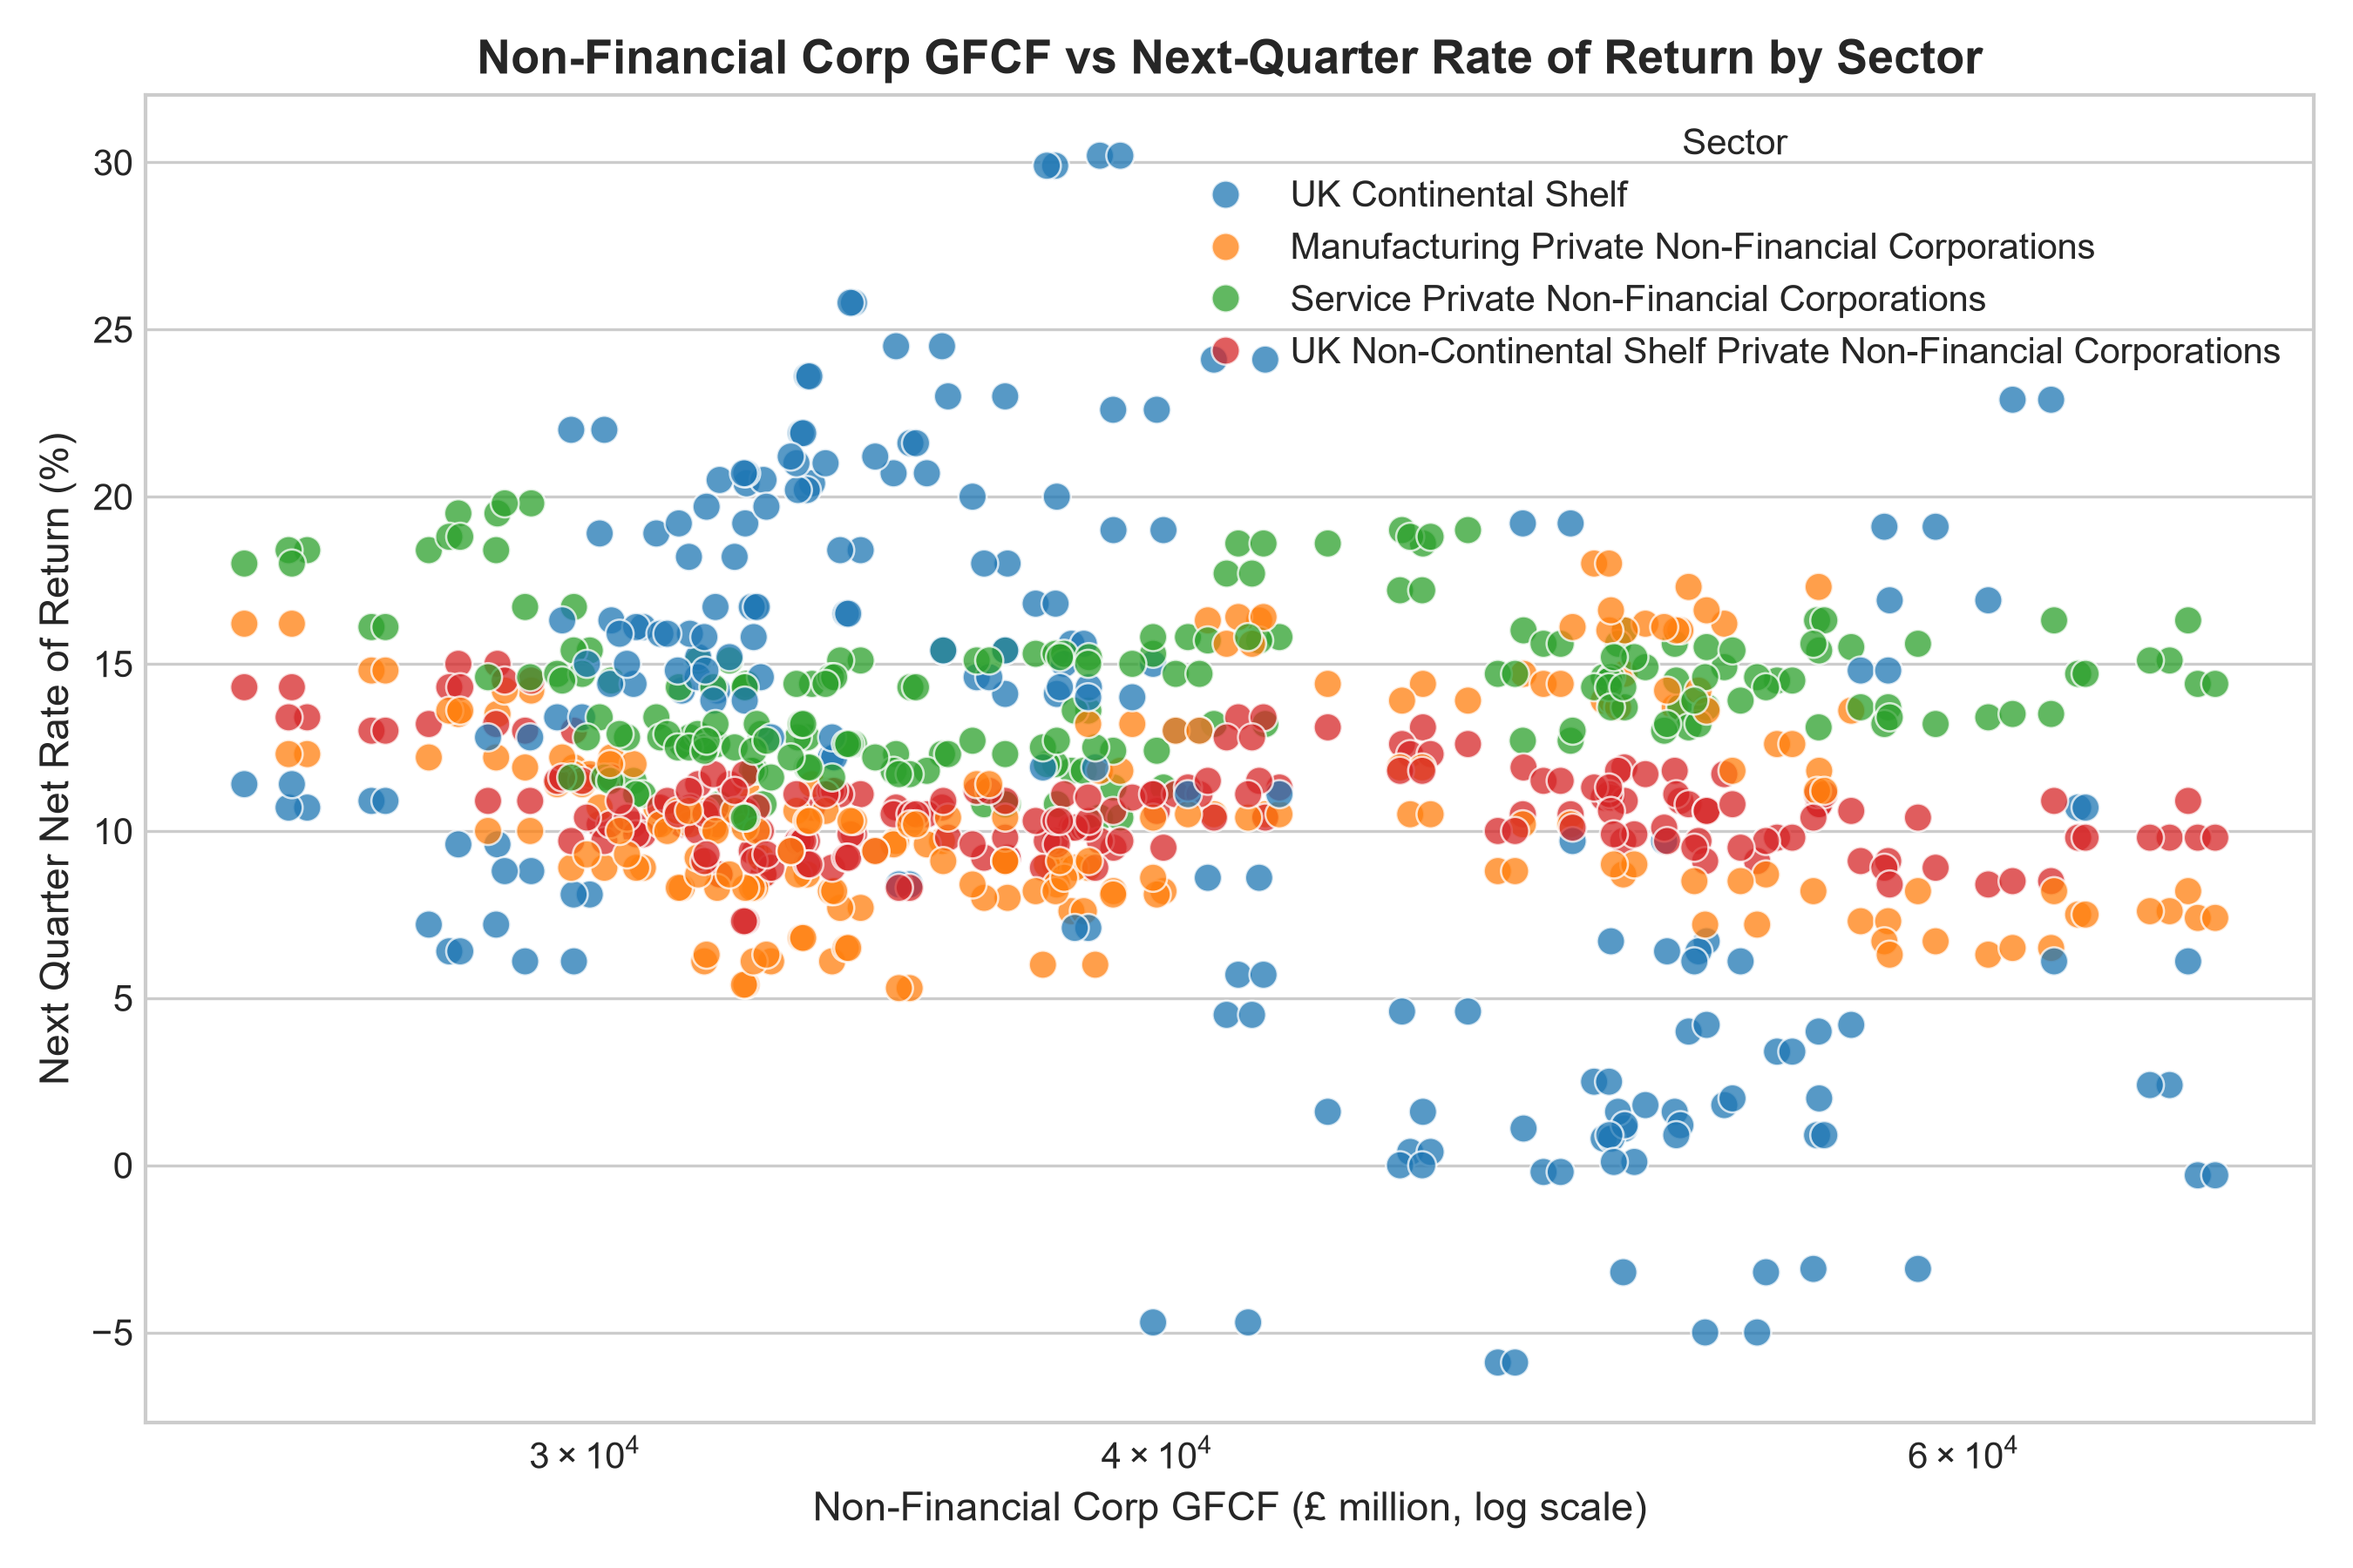
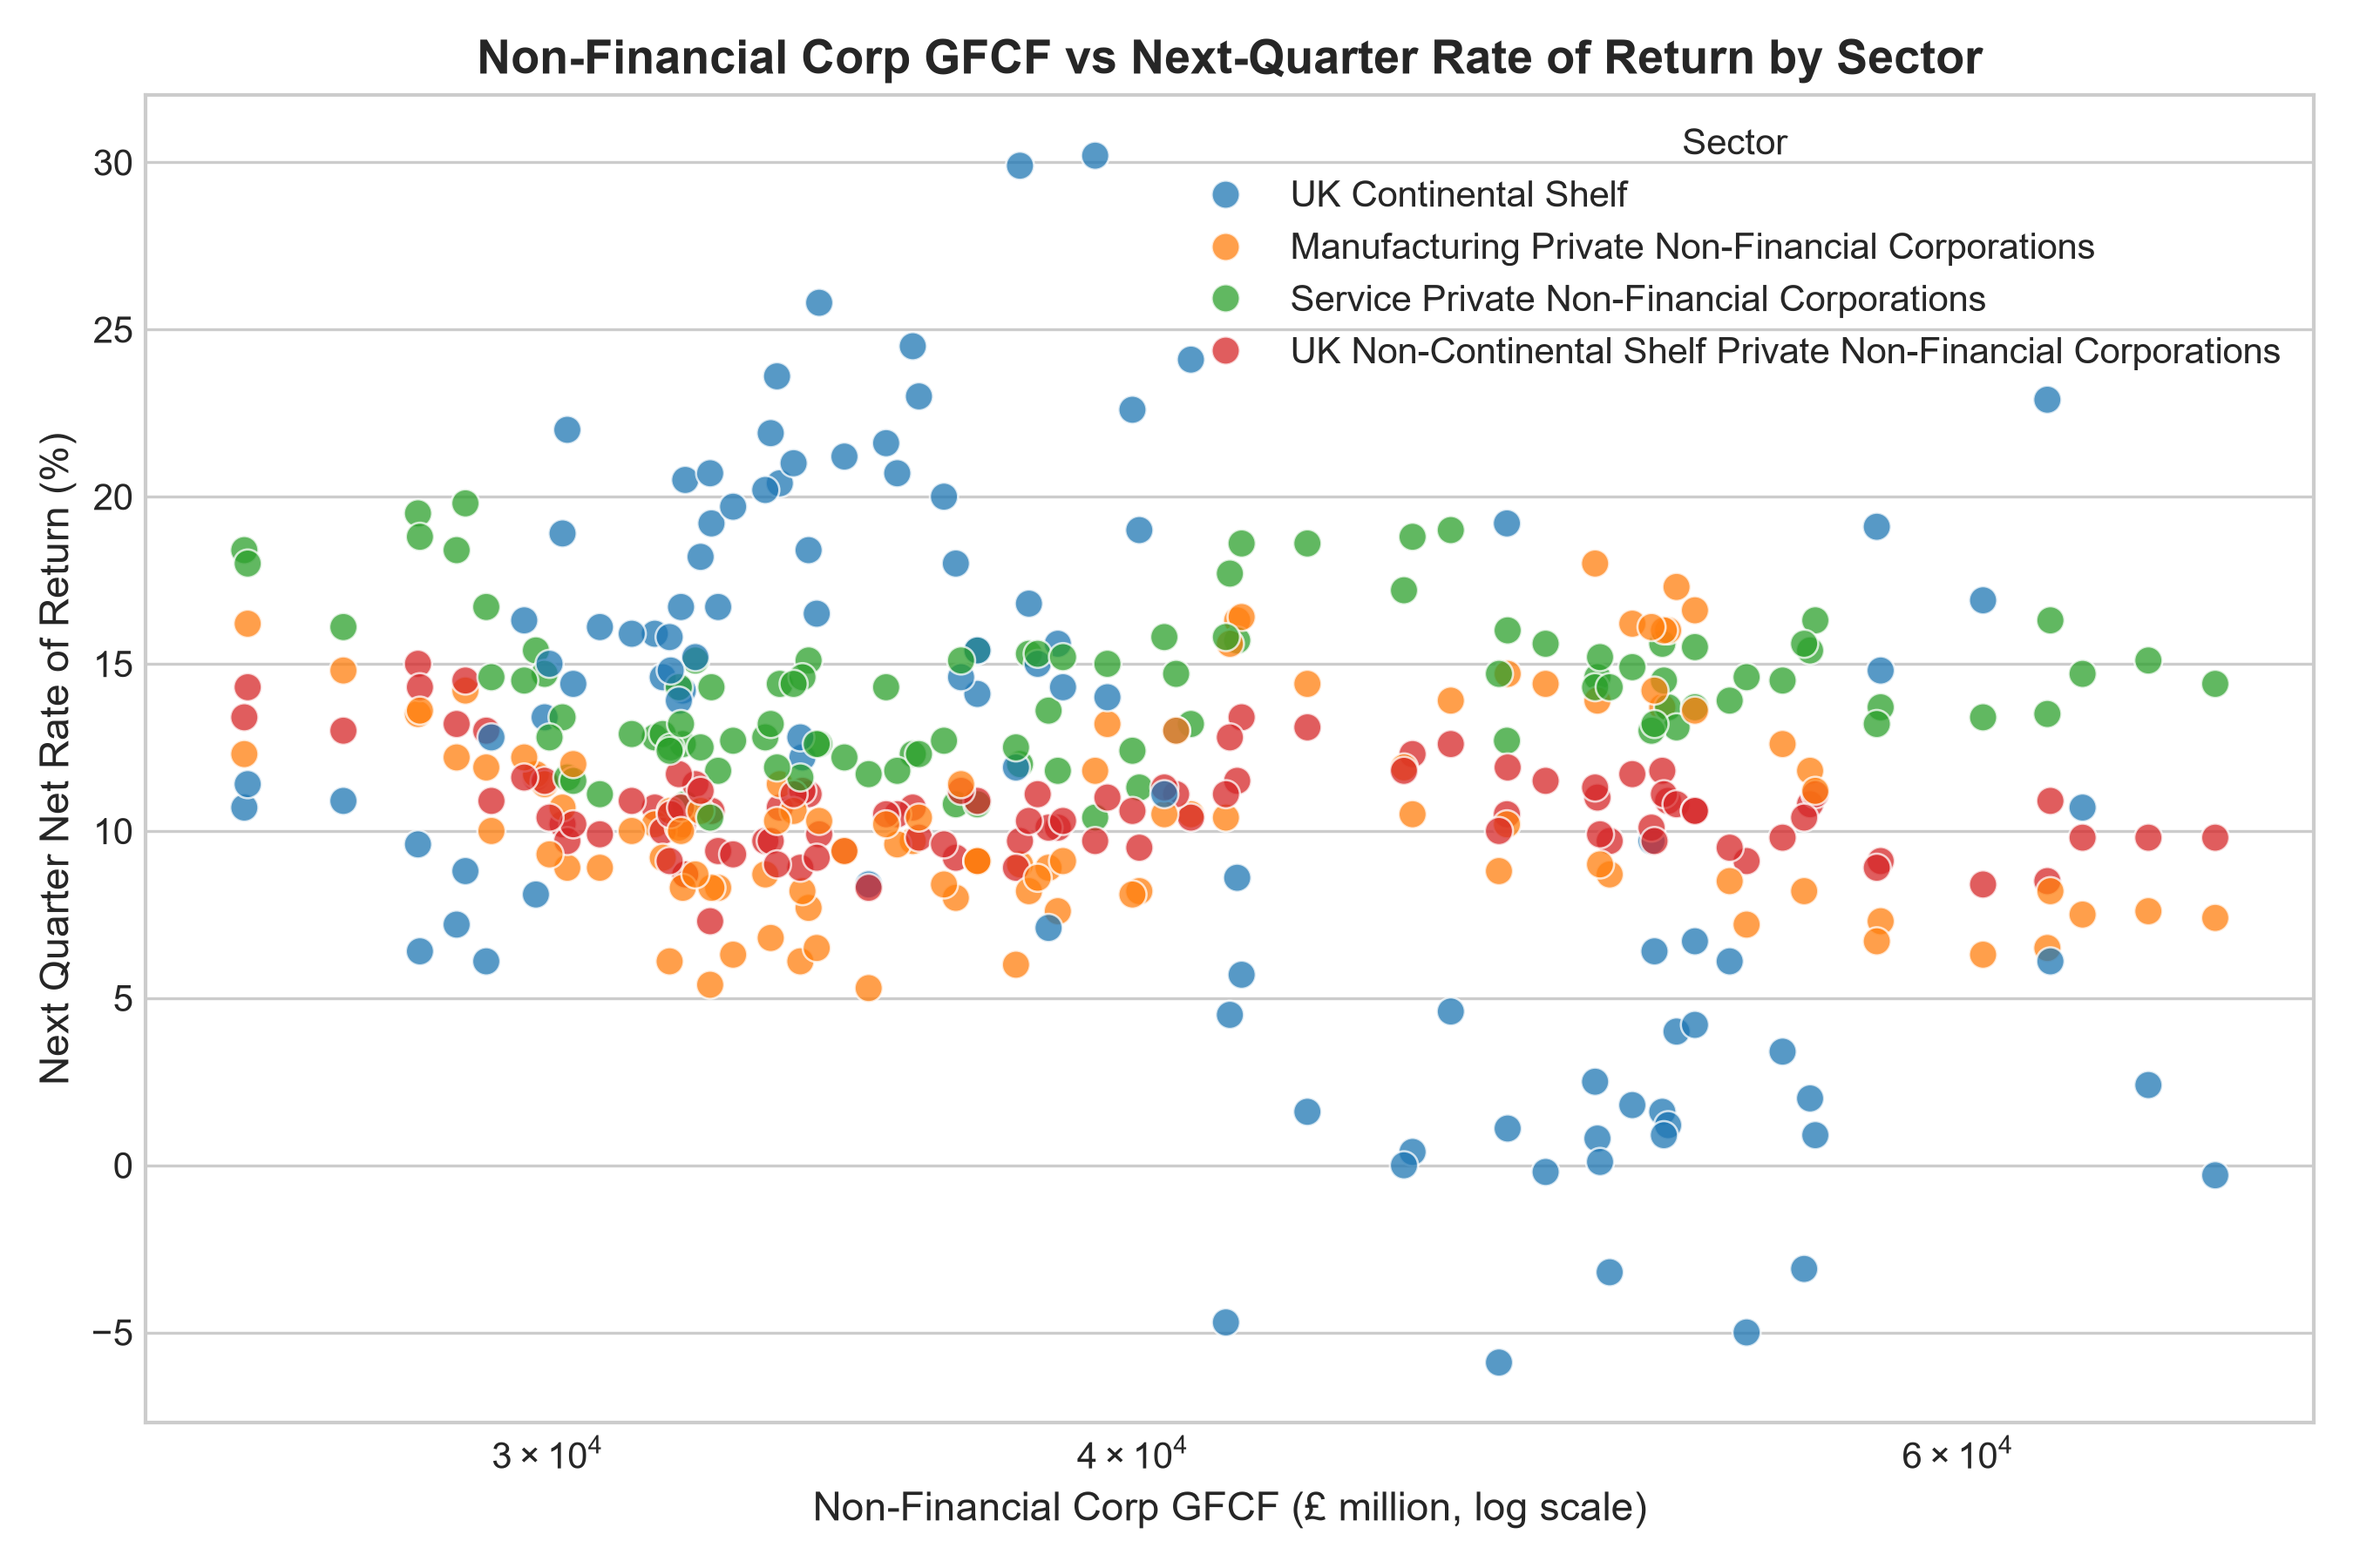
fix(pipeline): isolate Seasonally Adjusted table in 3.1.7_B, update n=424 sample size and README insights

diff --git a/src/data_loader.py b/src/data_loader.py
@@ -9,29 +9,48 @@ import pandas as pd
 import numpy as np
 
 
-def load_ons_quarterly_data_excel(filepath: str, sheet_name: str) -> pd.DataFrame:
+def load_ons_quarterly_data_excel(filepath: str, sheet_name: str, table_index: int = 2) -> pd.DataFrame:
     """
     Load raw ONS quarterly spreadsheet data, strip headers, map quarterly time strings
     to standard calendar period ends (e.g., '1997 Q1' -> '1997-03-31'), and cast columns
     to numeric types.
+    
+    If a worksheet stacks multiple tables (e.g., Table 1 Not Seasonally Adjusted and
+    Table 2 Seasonally Adjusted in ONS capital expenditure sheets), table_index selects
+    the target table (default: 2 for Seasonally Adjusted).
     """
-    df_raw = pd.read_excel(filepath, sheet_name=sheet_name, header=3)
+    df_raw_full = pd.read_excel(filepath, sheet_name=sheet_name, header=None)
+    table_markers = df_raw_full[df_raw_full.iloc[:, 0].astype(str).str.contains(r'^Table \d+:', case=False, na=False)].index.tolist()
+    
+    if len(table_markers) > 1:
+        if table_index == 2 and len(table_markers) >= 2:
+            start_row = table_markers[1] + 1
+            df_raw = df_raw_full.iloc[start_row + 1:].copy()
+            df_raw.columns = df_raw_full.iloc[start_row].values
+        else:
+            end_row = table_markers[1]
+            df_raw = df_raw_full.iloc[4:end_row].copy()
+            df_raw.columns = df_raw_full.iloc[3].values
+    else:
+        df_raw = pd.read_excel(filepath, sheet_name=sheet_name, header=3)
+        df_raw = df_raw.iloc[1:].copy()
+
     df_raw.rename(columns={df_raw.columns[0]: 'Time'}, inplace=True)
-    df = df_raw.iloc[1:].copy()
+    df = df_raw.copy()
 
     def quarter_to_date(q_str):
         if not isinstance(q_str, str):
             return np.nan
-        parts = q_str.split(' ')
-        if len(parts) == 2:
+        parts = q_str.strip().split(' ')
+        if len(parts) == 2 and parts[1] in ['Q1', 'Q2', 'Q3', 'Q4']:
             year, q = parts
             q_map = {'Q1': '-03-31', 'Q2': '-06-30', 'Q3': '-09-30', 'Q4': '-12-31'}
-            return f"{year}{q_map.get(q, '-01-01')}"
+            return f"{year}{q_map.get(q)}"
         return np.nan
 
-    df['Date'] = df['Time'].apply(lambda x: pd.to_datetime(quarter_to_date(x), errors='coerce'))
+    df['Date'] = pd.to_datetime(df['Time'].apply(quarter_to_date), errors='coerce')
 
-    cols_to_convert = df.columns[1:-1]
+    cols_to_convert = [c for c in df.columns if c not in ['Time', 'Date']]
     for col in cols_to_convert:
         df[col] = pd.to_numeric(df[col], errors='coerce')
 

diff --git a/scripts/format_notebook.py b/scripts/format_notebook.py
@@ -285,7 +285,7 @@ cells = [
         "metadata": {},
         "source": [
             "### 10. Chart 7: Investment (GFCF) vs Next-Quarter Profitability (The Investment Fallacy)\n",
-            "Testing whether higher capital expenditure produces immediate returns."
+            "Testing whether higher capital expenditure produces immediate returns across 424 sector-quarter observations (r = -0.21)."
         ]
     },
     {

diff --git a/README.md b/README.md
@@ -89,14 +89,14 @@ Evaluating quarterly return variance for the latest complete fiscal year highlig
 
 ---
 
-### 5. Insight 5: Asset Base vs Profitability (Risk-Weighted)
-Mapping Total Non-Financial Assets against the Net Rate of Return—weighted by the liability-to-asset ratio—examines the link between asset scale and profitability.
+### 5. Insight 5: Liabilities Relative to Non-Financial Assets vs Profitability
+Empirical evaluation of corporate financial liabilities relative to non-financial assets against profitability across 27 years (1997–2023):
 
 ![Asset Base vs Profitability](figures/chart2_asset_vs_return.png)
 
-- **📊 Visual Guide**: Scatter plot mapping Total Non-Financial Assets (£ million, log scale) against Net Rate of Return (%, vertical axis), with bubble size proportional to the Liability-to-Asset ratio.
-- **🔍 Empirical Observation**: Higher asset scale does not automatically equate to higher rates of return. Sub-sectors with smaller asset bases often carry elevated leverage ratios relative to their size.
-- **💡 Strategic Takeaway**: Raw scale is not a substitute for capital productivity; managing leverage ratios and operating efficiency is paramount across all enterprise tiers.
+- **📊 Visual Guide**: Annual regression plot mapping the corporate liability ratio (Financial Liabilities ÷ Non-Financial Assets, %) against Net Rate of Return (Annual Avg, %) from 1997 to 2023.
+- **🔍 Empirical Observation**: The annual liability ratio exhibits a moderate positive correlation with net profitability ($r = 0.45, n = 27$), reflecting return amplification during macro expansionary cycles.
+- **💡 Strategic Takeaway**: While leverage can amplify accounting returns, elevated liabilities relative to physical assets increase vulnerability to debt-servicing and refinancing shocks.
 
 ---
 
@@ -106,7 +106,7 @@ Evaluating whether higher capital spending translates directly into immediate re
 ![GFCF vs Profitability](figures/chart7_investment_vs_future_return.png)
 
 - **📊 Visual Guide**: Scatter plot pairing quarterly capital expenditure (GFCF, £ million, log scale) against Next Quarter Net Rate of Return (%) across sub-sectors.
-- **🔍 Empirical Observation**: The pooled correlation across sectors is weak negative ($r = -0.21, n = 848$), demonstrating that aggregate investment volume does not yield a linear, immediate uplift in next-quarter returns.
+- **🔍 Empirical Observation**: The pooled descriptive correlation across sectors is weak negative ($r = -0.21, n = 424$ unique sector-quarters), demonstrating that gross quarterly investment volume does not produce an immediate next-quarter return surge.
 - **💡 Strategic Takeaway**: Disproves simplistic "spend-to-profit" assumptions. Corporate leadership should evaluate capex through the lens of capital efficiency, gestation lags, and demand-cycle timing rather than gross expenditure targets.
 
 ---
@@ -122,14 +122,14 @@ Multi-variable correlation analysis across aggregate UK non-financial corporate 
 
 ---
 
-### 8. Insight 8: Exploratory Feature Importance
-Decomposing relative feature weights in predicting aggregate corporate net return:
+### 8. Insight 8: Exploratory Feature Importance (Non-Circular)
+Decomposing relative feature weights in explaining aggregate corporate net return using macro balance-sheet indicators:
 
 ![Feature Importance](figures/chart8_rf_feature_importance.png)
 
-- **📊 Visual Guide**: Horizontal bar chart showing relative feature importances from a Random Forest regressor fitted across available annual macro and sector return variables.
-- **🔍 Empirical Observation**: Sub-sector performance indicators (Service and Manufacturing return rates) and liability ratios account for the majority of in-sample explanatory weight, ranking above aggregate top-line asset growth rates.
-- **💡 Strategic Takeaway**: Illustrates that micro-sector health and capital structure metrics provide stronger informational signals for profitability modeling than broad aggregate asset expansion.
+- **📊 Visual Guide**: Horizontal bar chart showing relative feature importances from an exploratory Random Forest regressor fitted on exogenous macro balance-sheet variables (Asset Growth Rate, Liability Ratio, and GFCF Investment) without endogenous sector return components.
+- **🔍 Empirical Observation**: The Liability Ratio and GFCF Investment volume carry the primary relative explanatory weight for aggregate corporate net profitability, with Asset Growth Rate contributing marginal weight.
+- **💡 Strategic Takeaway**: Confirms that capital structure (liability-to-asset configuration) and capital allocation pace are more informative macro signals for profitability than raw top-line asset growth.
 
 ---
 
